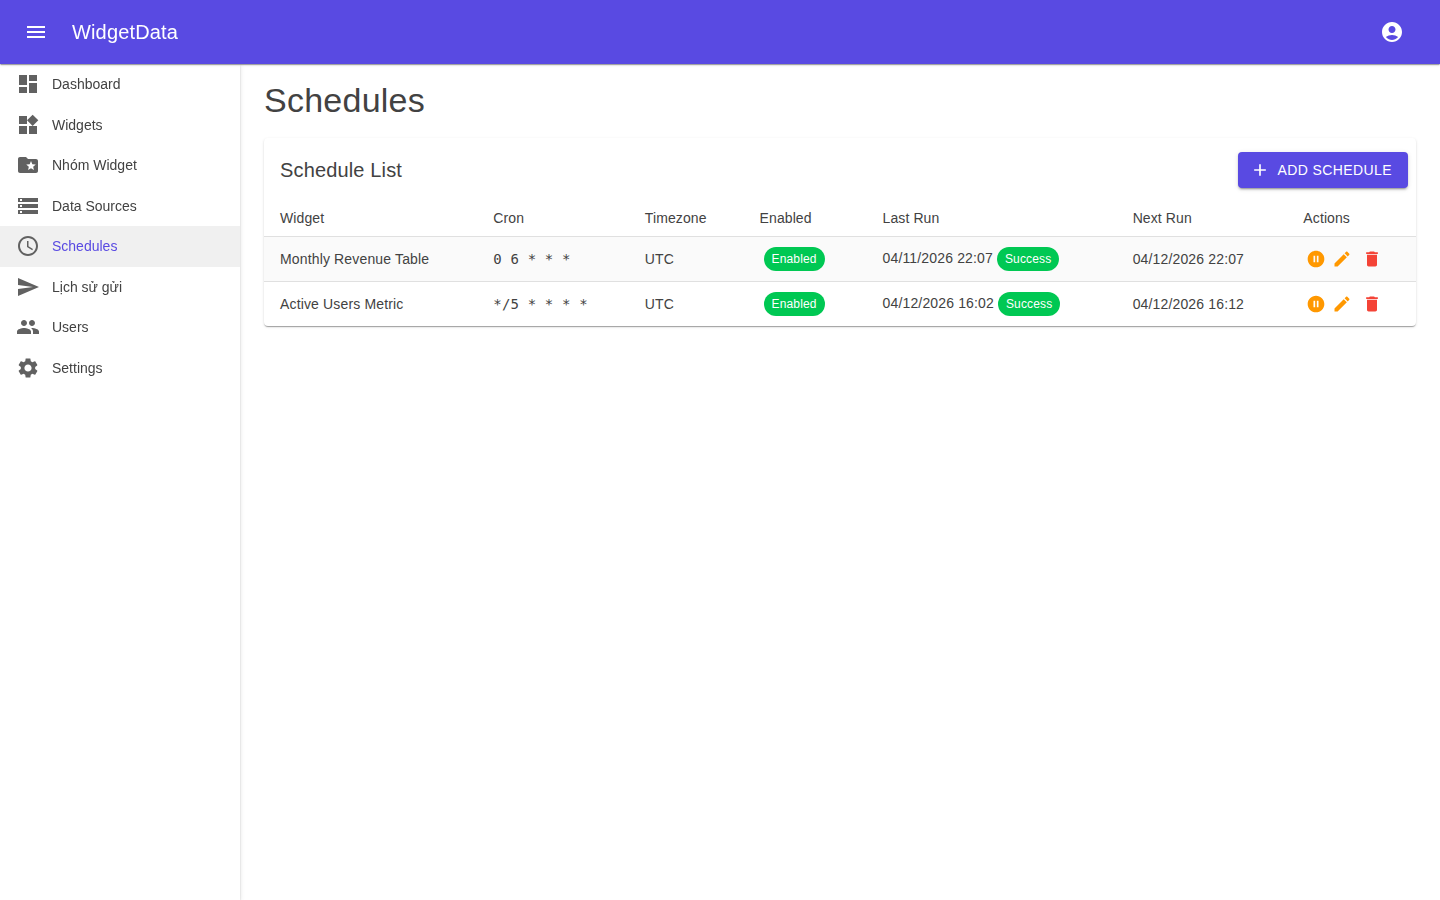
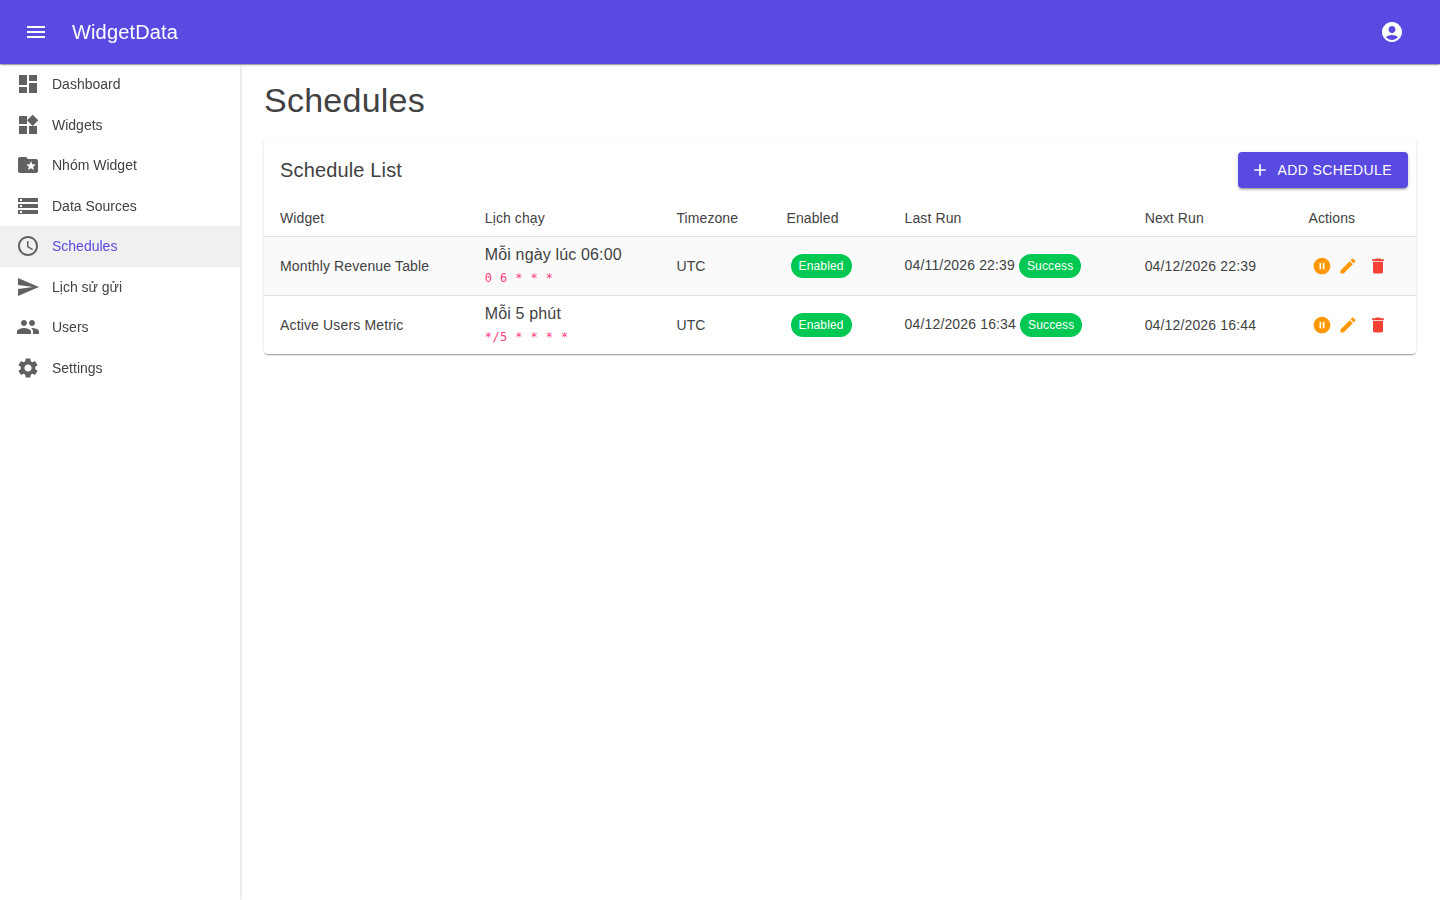
feat: human-readable cron descriptions in Schedules and Widget Configure Step 3
Agent-Logs-Url: https://github.com/leNam199320xx/WidgetData/sessions/7758d37f-0ce1-48c1-9994-f26faba9226f

diff --git a/src/WidgetData.Web/Services/CronHelper.cs b/src/WidgetData.Web/Services/CronHelper.cs
@@ -1,0 +1,159 @@
+namespace WidgetData.Web.Services;
+
+/// <summary>
+/// Chuyển đổi cron expression 5 trường (phút giờ ngày tháng thứ)
+/// thành mô tả tiếng Việt dễ hiểu.
+/// </summary>
+public static class CronHelper
+{
+    private static readonly string[] DayNames =
+        ["Chủ Nhật", "Thứ Hai", "Thứ Ba", "Thứ Tư", "Thứ Năm", "Thứ Sáu", "Thứ Bảy"];
+
+    private static readonly string[] MonthNames =
+        ["", "Tháng 1", "Tháng 2", "Tháng 3", "Tháng 4", "Tháng 5", "Tháng 6",
+              "Tháng 7", "Tháng 8", "Tháng 9", "Tháng 10", "Tháng 11", "Tháng 12"];
+
+    /// <summary>
+    /// Trả về mô tả tiếng Việt. Nếu không parse được trả về chuỗi gốc.
+    /// </summary>
+    public static string Describe(string? cron)
+    {
+        if (string.IsNullOrWhiteSpace(cron)) return "(chưa đặt lịch)";
+
+        var parts = cron.Trim().Split(' ', StringSplitOptions.RemoveEmptyEntries);
+        if (parts.Length != 5) return cron;
+
+        var (min, hour, dom, month, dow) = (parts[0], parts[1], parts[2], parts[3], parts[4]);
+
+        // --- Mỗi phút ---
+        if (min == "*" && hour == "*" && dom == "*" && month == "*" && dow == "*")
+            return "Mỗi phút";
+
+        // --- */N phút ---
+        if (min.StartsWith("*/") && hour == "*" && dom == "*" && month == "*" && dow == "*")
+        {
+            if (int.TryParse(min[2..], out int n))
+                return n == 1 ? "Mỗi phút" : $"Mỗi {n} phút";
+        }
+
+        // --- Mỗi giờ (0 * * * *) ---
+        if (hour == "*" && dom == "*" && month == "*" && dow == "*" && IsFixed(min, out int atMin))
+            return $"Mỗi giờ vào phút :{atMin:D2}";
+
+        // --- */N giờ ---
+        if (hour.StartsWith("*/") && dom == "*" && month == "*" && dow == "*" && IsFixed(min, out int m2))
+        {
+            if (int.TryParse(hour[2..], out int h))
+                return h == 1 ? $"Mỗi giờ vào phút :{m2:D2}" : $"Mỗi {h} giờ lúc xx:{m2:D2}";
+        }
+
+        // --- Hàng ngày (0 6 * * *) ---
+        if (dom == "*" && month == "*" && dow == "*"
+            && IsFixed(min, out int dailyMin) && IsFixed(hour, out int dailyHour))
+            return $"Mỗi ngày lúc {dailyHour:D2}:{dailyMin:D2}";
+
+        // --- Các ngày trong tuần (0 8 * * 1-5) ---
+        if (dom == "*" && month == "*" && dow == "1-5"
+            && IsFixed(min, out int wdMin) && IsFixed(hour, out int wdHour))
+            return $"Thứ Hai – Thứ Sáu lúc {wdHour:D2}:{wdMin:D2}";
+
+        if (dom == "*" && month == "*" && dow == "1-7"
+            && IsFixed(min, out int wdMin2) && IsFixed(hour, out int wdHour2))
+            return $"Mỗi ngày lúc {wdHour2:D2}:{wdMin2:D2}";
+
+        // --- Một ngày cụ thể trong tuần (0 8 * * 1) ---
+        if (dom == "*" && month == "*" && IsFixed(dow, out int dayNum)
+            && IsFixed(min, out int sdMin) && IsFixed(hour, out int sdHour)
+            && dayNum >= 0 && dayNum <= 6)
+            return $"{DayNames[dayNum]} hằng tuần lúc {sdHour:D2}:{sdMin:D2}";
+
+        // --- Nhiều ngày trong tuần (0 8 * * 1,3,5) ---
+        if (dom == "*" && month == "*" && dow.Contains(',')
+            && IsFixed(min, out int mdMin) && IsFixed(hour, out int mdHour))
+        {
+            var days = ParseList(dow, 0, 6);
+            if (days != null)
+            {
+                var dayLabels = string.Join(", ", days.Select(d => DayNames[d]));
+                return $"{dayLabels} lúc {mdHour:D2}:{mdMin:D2}";
+            }
+        }
+
+        // --- Ngày đầu tháng (0 0 1 * *) ---
+        if (dom == "1" && month == "*" && dow == "*"
+            && IsFixed(min, out int bomMin) && IsFixed(hour, out int bomHour))
+            return $"Ngày đầu mỗi tháng lúc {bomHour:D2}:{bomMin:D2}";
+
+        // --- Ngày cuối tháng (0 0 L * *) – not common but handle gracefully ---
+
+        // --- Ngày cụ thể trong tháng (0 8 15 * *) ---
+        if (month == "*" && dow == "*"
+            && IsFixed(dom, out int dayOfMon) && IsFixed(min, out int domMin) && IsFixed(hour, out int domHour))
+            return $"Ngày {dayOfMon} hằng tháng lúc {domHour:D2}:{domMin:D2}";
+
+        // --- Tháng cụ thể (0 0 1 6 *) ---
+        if (dow == "*" && IsFixed(month, out int fixMonth) && IsFixed(dom, out int fixDom)
+            && IsFixed(min, out int ymMin) && IsFixed(hour, out int ymHour)
+            && fixMonth >= 1 && fixMonth <= 12)
+            return $"Ngày {fixDom} {MonthNames[fixMonth]} hằng năm lúc {ymHour:D2}:{ymMin:D2}";
+
+        // --- Fallback: trả về bản dịch từng phần ---
+        return BuildFallback(min, hour, dom, month, dow);
+    }
+
+    // ---- helpers ----
+
+    private static bool IsFixed(string field, out int value)
+    {
+        value = 0;
+        return field != "*" && !field.Contains('/') && !field.Contains(',') && !field.Contains('-')
+               && int.TryParse(field, out value);
+    }
+
+    private static List<int>? ParseList(string field, int min, int max)
+    {
+        var parts = field.Split(',');
+        var list = new List<int>();
+        foreach (var p in parts)
+        {
+            if (!int.TryParse(p.Trim(), out int v) || v < min || v > max) return null;
+            list.Add(v);
+        }
+        list.Sort();
+        return list;
+    }
+
+    private static string BuildFallback(string min, string hour, string dom, string month, string dow)
+    {
+        var sb = new System.Text.StringBuilder();
+
+        // time part
+        if (IsFixed(hour, out int h) && IsFixed(min, out int m))
+            sb.Append($"lúc {h:D2}:{m:D2}");
+        else if (hour == "*" && IsFixed(min, out int m2))
+            sb.Append($"phút :{m2:D2} mỗi giờ");
+        else if (min.StartsWith("*/") && int.TryParse(min[2..], out int ev))
+            sb.Append($"mỗi {ev} phút");
+
+        // day-of-week part
+        if (dow != "*")
+        {
+            if (dow.Contains('-') && dow.Split('-').Length == 2)
+            {
+                var r = dow.Split('-');
+                if (int.TryParse(r[0], out int d1) && int.TryParse(r[1], out int d2) && d1 >= 0 && d2 <= 6)
+                    sb.Insert(0, $"{DayNames[d1]}–{DayNames[d2]} ");
+            }
+        }
+
+        // dom part
+        if (dom != "*" && IsFixed(dom, out int d))
+            sb.Insert(0, $"ngày {d} hằng tháng ");
+
+        // month part
+        if (month != "*" && IsFixed(month, out int mo) && mo >= 1 && mo <= 12)
+            sb.Insert(0, $"{MonthNames[mo]} ");
+
+        return sb.Length > 0 ? sb.ToString().Trim() : $"Lịch tùy chỉnh ({min} {hour} {dom} {month} {dow})";
+    }
+}

diff --git a/doc/screens.md b/doc/screens.md
@@ -35,7 +35,7 @@ Các màn hình được capture từ demo chạy thực tế với dữ liệu 
 |------|-------|-----------|
 | Bước 1: Thông tin | Tên kỹ thuật, tên hiển thị, loại widget, kích hoạt | ![Step 1](screenshots/10a_configure_step1_thongtin.png) |
 | Bước 2: Dữ liệu | Chọn data source, câu truy vấn, cấu hình cache | ![Step 2](screenshots/10b_configure_step2_dulieu.png) |
-| Bước 3: Lịch chạy | Xem lịch cron hiện tại, link tới Schedules | ![Step 3](screenshots/10c_configure_step3_lichchay.png) |
+| Bước 3: Lịch chạy | Lịch cron dạng dễ hiểu (vd: "Mỗi ngày lúc 06:00"), cron gốc ở phụ đề, link tới Schedules | ![Step 3](screenshots/10c_configure_step3_lichchay.png) |
 | Bước 4: Xuất kết quả | Tải xuống CSV/Excel/PDF/HTML/TXT, thêm điểm gửi | ![Step 4](screenshots/10d_configure_step4_xuatkqua.png) |
 
 ---
